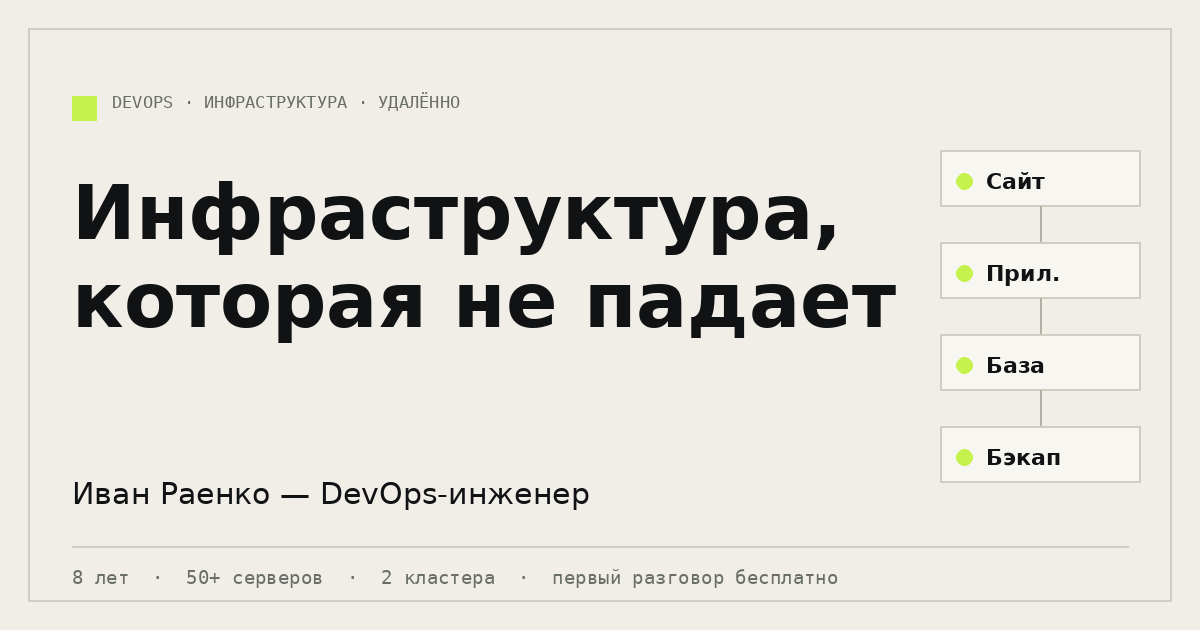
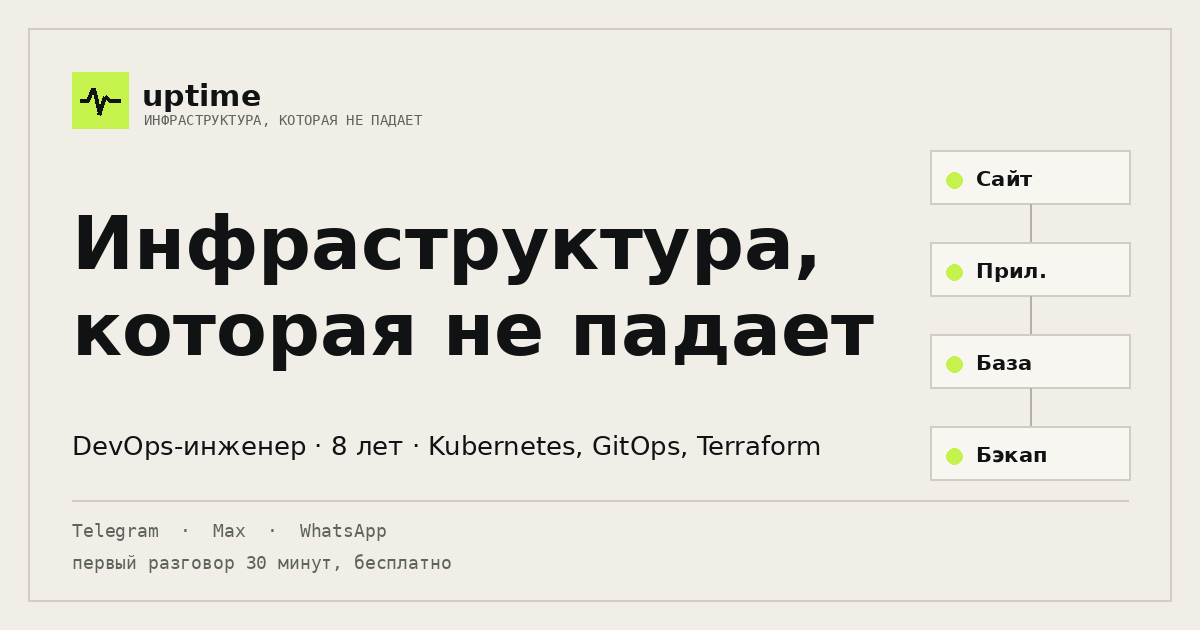
feat: бренд uptime вместо имени в шапке + мессенджеры Max и WhatsApp
- логотип: лаймовый квадрат с пульсом, вордмарк uptime (вместо «ИР» и имени)
- имя остаётся только в блоке «кто я» и в подписи футера
- Telegram / Max / WhatsApp в hero, контактах, футере и мобильной плашке
- OG-картинка и фавикон перерисованы под бренд

diff --git a/src/config.ts b/src/config.ts
@@ -7,7 +7,15 @@
  */
 
 export const config = {
-  // Как вас зовут на сайте
+  // ─── Бренд ───────────────────────────────────────────────
+  // Имя сайта в шапке, футере, <title> и OG-картинке.
+  // Меняете здесь — меняется везде. Варианты на замену: "не падает", "99.9", "infra"
+  brand: {
+    wordmark: "uptime",
+    tagline: "инфраструктура, которая не падает",
+  },
+
+  // Как вас зовут (нужно в блоке «кто я» и в подписи футера)
   name: "Иван Раенко",
   shortName: "Иван",
   initials: "ИР",
@@ -20,6 +28,13 @@ export const config = {
   contacts: {
     // TODO: проверьте ссылку — сейчас взята из резюме
     telegram: { label: "@devopsnsk", url: "https://t.me/devopsnsk" },
+    // TODO: проверьте ссылку Max — сейчас взята из резюме
+    max: {
+      label: "Max",
+      url: "https://max.ru/u/f9LHodD0cOJRMeqwry1H3VOwIUXQYiUHdfjxw4NfCPLSptlnNq9DlD3CL60",
+    },
+    // TODO: проверьте номер для WhatsApp (сейчас — номер из резюме)
+    whatsapp: { label: "WhatsApp", url: "https://wa.me/79130197199" },
     // TODO: проверьте почту — сейчас взята из резюме
     email: { label: "devopsnskru@gmail.com", url: "mailto:devopsnskru@gmail.com" },
     // TODO: проверьте профиль
@@ -45,7 +60,7 @@ export const config = {
   selfHostedUrl: "",
 
   meta: {
-    title: "Иван Раенко — DevOps-инженер: чтобы сервисы не падали",
+    title: "uptime — инфраструктура, которая не падает",
     description:
       "Настраиваю инфраструктуру так, чтобы сайт не падал, релизы выходили за минуты, а данные не терялись. 8 лет опыта, удалённо. Первый разговор — бесплатно.",
     // OG-картинка 1200×630 лежит в public/og.png
@@ -59,5 +74,12 @@ export function telegramWithText(text: string): string {
   url.searchParams.set("text", text);
   return url.toString();
 }
+
+/** Мессенджеры в порядке показа: hero, блок контактов, футер, мобильная плашка. */
+export const channels = [
+  { id: "telegram", label: "Telegram", url: config.contacts.telegram.url },
+  { id: "max", label: "Max", url: config.contacts.max.url },
+  { id: "whatsapp", label: "WhatsApp", url: config.contacts.whatsapp.url },
+] as const;
 
 export type Config = typeof config;

diff --git a/src/styles/global.css b/src/styles/global.css
@@ -104,6 +104,20 @@
   transform: translateY(1px);
 }
 
+.btn-sm {
+  padding: 0.7rem 0.85rem;
+  font-size: 10px;
+  letter-spacing: 0.08em;
+}
+
+@media (min-width: 768px) {
+  .btn-sm {
+    padding: 0.95rem 1.4rem;
+    font-size: 12px;
+    letter-spacing: 0.1em;
+  }
+}
+
 .btn-lime {
   background: var(--color-lime);
   color: var(--color-ink);

diff --git a/README.md b/README.md
@@ -16,8 +16,12 @@ npm run build    # статика в dist/
 
 | Поле | Что это | Сейчас |
 |---|---|---|
-| `name`, `shortName`, `initials` | Имя в шапке, hero и футере | заполнено |
-| `contacts.telegram` | ссылка и подпись для кнопки «Написать» | `@devopsnsk` — проверьте |
+| `brand.wordmark` | имя сайта в шапке, футере, `<title>` и OG | `uptime` |
+| `brand.tagline` | подпись под логотипом | «инфраструктура, которая не падает» |
+| `name`, `shortName` | имя в блоке «кто я» и в подписи футера | заполнено |
+| `contacts.telegram` | Telegram для кнопки «Написать» | `@devopsnsk` — проверьте |
+| `contacts.max` | ссылка на профиль в Max | из резюме — проверьте |
+| `contacts.whatsapp` | `wa.me/<номер>` — номер в международном формате без `+` | номер из резюме — проверьте |
 | `contacts.email` | почта в блоке контактов | из резюме — проверьте |
 | `contacts.github` | профиль GitHub | `BlackoJack` |
 | `portfolio` | ссылка на репозиторий-портфолио | `k8s-gitops-platform` |
@@ -32,6 +36,8 @@ npm run build    # статика в dist/
 - `cases.ts` — три кейса с цифрами.
 - `process.ts` — четыре шага и четыре формата работы.
 - `faq.ts` — вопросы и ответы.
+
+Порядок и состав мессенджеров — в массиве `channels` в конце `src/config.ts`: он управляет кнопками в hero, списком в контактах, ссылками в футере и плашкой на мобильном. Уберите канал из массива — он исчезнет отовсюду.
 
 Дизайн — в `src/styles/global.css`: палитра и шрифты в блоке `@theme` (цвет `--color-lime`, фон `--color-paper` и т.д.). Меняете токен — меняется весь сайт.
 
